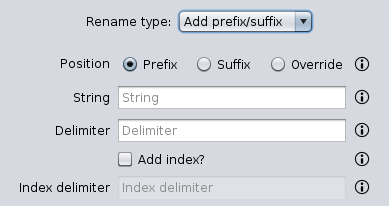
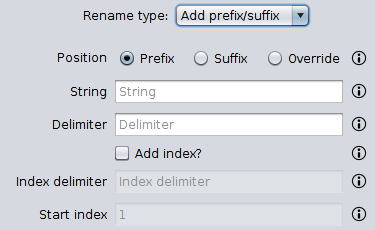
Adds start index parameter

diff --git a/seda/src/main/java/org/sing_group/seda/gui/rename/AddStringHeaderRenamePanel.java b/seda/src/main/java/org/sing_group/seda/gui/rename/AddStringHeaderRenamePanel.java
@@ -30,6 +30,8 @@ import static org.sing_group.seda.plugin.core.info.plugin.RenameHeaderAddWordSed
 import static org.sing_group.seda.plugin.core.info.plugin.RenameHeaderAddWordSedaPluginInfo.PARAM_INDEX_DELIMITER_HELP_GUI;
 import static org.sing_group.seda.plugin.core.info.plugin.RenameHeaderAddWordSedaPluginInfo.PARAM_POSITION_DESCRIPTION;
 import static org.sing_group.seda.plugin.core.info.plugin.RenameHeaderAddWordSedaPluginInfo.PARAM_POSITION_HELP_GUI;
+import static org.sing_group.seda.plugin.core.info.plugin.RenameHeaderAddWordSedaPluginInfo.PARAM_START_INDEX_DESCRIPTION;
+import static org.sing_group.seda.plugin.core.info.plugin.RenameHeaderAddWordSedaPluginInfo.PARAM_START_INDEX_HELP_GUI;
 import static org.sing_group.seda.plugin.core.info.plugin.RenameHeaderAddWordSedaPluginInfo.PARAM_STRING_DESCRIPTION;
 import static org.sing_group.seda.plugin.core.info.plugin.RenameHeaderAddWordSedaPluginInfo.PARAM_STRING_HELP_GUI;
 
@@ -37,12 +39,13 @@ import java.awt.event.ItemEvent;
 import java.util.LinkedList;
 import java.util.List;
 
-import javax.swing.*;
+import javax.swing.JCheckBox;
 
 import org.jdesktop.swingx.JXTextField;
 import org.sing_group.gc4s.input.InputParameter;
 import org.sing_group.gc4s.input.InputParametersPanel;
 import org.sing_group.gc4s.input.RadioButtonsPanel;
+import org.sing_group.gc4s.input.text.JIntegerTextField;
 import org.sing_group.seda.core.rename.AddStringHeaderRenamer;
 import org.sing_group.seda.core.rename.AddStringHeaderRenamer.Position;
 import org.sing_group.seda.core.rename.HeaderRenamer;
@@ -58,6 +61,7 @@ public class AddStringHeaderRenamePanel extends AbstractRenameHeaderPanel {
   private RadioButtonsPanel<Position> positionRbtnPanel;
   private JCheckBox addIndexCheckBox;
   private JXTextField indexDelimiterTextField;
+  private JIntegerTextField startIndexTextField;
   private List<InputParameter> additionalParameters;
 
   public AddStringHeaderRenamePanel() {
@@ -80,14 +84,10 @@ public class AddStringHeaderRenamePanel extends AbstractRenameHeaderPanel {
     toret.add(getPrefixStringParameter());
     toret.add(getDelimiterStringParameter());
 
-    InputParameter addIndexParameter = getAddIndexParameter();
     if (this.addIndexVisible) {
-      toret.add(addIndexParameter);
-    }
-
-    InputParameter addIndexDelimiterParameter = getIndexDelimiterParameter();
-    if (this.addIndexVisible) {
-      toret.add(addIndexDelimiterParameter);
+      toret.add(getAddIndexParameter());
+      toret.add(getIndexDelimiterParameter());
+      toret.add(getStartIndexParameter());
     }
 
     return toret.toArray(new InputParameter[toret.size()]);
@@ -136,10 +136,19 @@ public class AddStringHeaderRenamePanel extends AbstractRenameHeaderPanel {
       PARAM_INDEX_DELIMITER_DESCRIPTION, this.indexDelimiterTextField, PARAM_INDEX_DELIMITER_HELP_GUI
     );
   }
+  
+  private InputParameter getStartIndexParameter() {
+    this.startIndexTextField = new JIntegerTextField(1);
+    this.startIndexTextField.setEnabled(false);
+    this.startIndexTextField.getDocument().addDocumentListener(documentListener);
+
+    return new InputParameter(PARAM_START_INDEX_DESCRIPTION, this.startIndexTextField, PARAM_START_INDEX_HELP_GUI);
+  }
 
   private void addIndexCheckBoxItemEvent(ItemEvent event) {
     this.renameConfigurationChanged();
     this.indexDelimiterTextField.setEnabled(this.addIndexCheckBox.isSelected());
+    this.startIndexTextField.setEnabled(this.addIndexCheckBox.isSelected());
   }
 
   private String getPrefixString() {
@@ -157,6 +166,10 @@ public class AddStringHeaderRenamePanel extends AbstractRenameHeaderPanel {
   private String getIndexDelimiterString() {
     return this.indexDelimiterTextField.getText();
   }
+  
+  private int getStartIndex() {
+    return this.startIndexTextField.getValue();
+  }
 
   private Position getPosition() {
     return this.positionRbtnPanel.getSelectedItem().get();
@@ -170,7 +183,7 @@ public class AddStringHeaderRenamePanel extends AbstractRenameHeaderPanel {
   @Override
   public HeaderRenamer getHeaderRenamer(HeaderTarget target) {
     return new AddStringHeaderRenamer(
-      target, getPrefixString(), getDelimiterString(), getPosition(), isAddIndex(), getIndexDelimiterString()
+      target, getPrefixString(), getDelimiterString(), getPosition(), isAddIndex(), getIndexDelimiterString(), getStartIndex()
     );
   }
 

diff --git a/seda/src/main/java/org/sing_group/seda/cli/command/RenameHeaderAddWordCommand.java b/seda/src/main/java/org/sing_group/seda/cli/command/RenameHeaderAddWordCommand.java
@@ -35,6 +35,9 @@ import static org.sing_group.seda.plugin.core.info.plugin.RenameHeaderAddWordSed
 import static org.sing_group.seda.plugin.core.info.plugin.RenameHeaderAddWordSedaPluginInfo.PARAM_POSITION_HELP;
 import static org.sing_group.seda.plugin.core.info.plugin.RenameHeaderAddWordSedaPluginInfo.PARAM_POSITION_NAME;
 import static org.sing_group.seda.plugin.core.info.plugin.RenameHeaderAddWordSedaPluginInfo.PARAM_POSITION_SHORT_NAME;
+import static org.sing_group.seda.plugin.core.info.plugin.RenameHeaderAddWordSedaPluginInfo.PARAM_START_INDEX_HELP;
+import static org.sing_group.seda.plugin.core.info.plugin.RenameHeaderAddWordSedaPluginInfo.PARAM_START_INDEX_NAME;
+import static org.sing_group.seda.plugin.core.info.plugin.RenameHeaderAddWordSedaPluginInfo.PARAM_START_INDEX_SHORT_NAME;
 import static org.sing_group.seda.plugin.core.info.plugin.RenameHeaderAddWordSedaPluginInfo.PARAM_STRING_HELP;
 import static org.sing_group.seda.plugin.core.info.plugin.RenameHeaderAddWordSedaPluginInfo.PARAM_STRING_NAME;
 import static org.sing_group.seda.plugin.core.info.plugin.RenameHeaderAddWordSedaPluginInfo.PARAM_STRING_SHORT_NAME;
@@ -50,6 +53,7 @@ import org.sing_group.seda.plugin.spi.TransformationProvider;
 
 import es.uvigo.ei.sing.yacli.command.option.DefaultValuedStringOption;
 import es.uvigo.ei.sing.yacli.command.option.FlagOption;
+import es.uvigo.ei.sing.yacli.command.option.IntegerDefaultValuedStringConstructedOption;
 import es.uvigo.ei.sing.yacli.command.option.Option;
 import es.uvigo.ei.sing.yacli.command.option.StringOption;
 import es.uvigo.ei.sing.yacli.command.parameter.Parameters;
@@ -74,6 +78,10 @@ public class RenameHeaderAddWordCommand extends RenameHeaderCommand {
 
   public static final DefaultValuedStringOption OPTION_INDEX_DELIMITER = new DefaultValuedStringOption(
     PARAM_INDEX_DELIMITER_NAME, PARAM_INDEX_DELIMITER_SHORT_NAME, PARAM_INDEX_DELIMITER_HELP, "_"
+  );
+  
+  public static final IntegerDefaultValuedStringConstructedOption OPTION_START_INDEX = new IntegerDefaultValuedStringConstructedOption(
+    PARAM_START_INDEX_NAME, PARAM_START_INDEX_SHORT_NAME, PARAM_START_INDEX_HELP, 1
   );
 
   @Override
@@ -100,6 +108,7 @@ public class RenameHeaderAddWordCommand extends RenameHeaderCommand {
     options.add(OPTION_DELIMITER);
     options.add(OPTION_ADD_INDEX);
     options.add(OPTION_INDEX_DELIMITER);
+    options.add(OPTION_START_INDEX);
     options.addAll(super.createSedaOptions());
 
     return options;
@@ -124,6 +133,7 @@ public class RenameHeaderAddWordCommand extends RenameHeaderCommand {
     String stringToAdd = parameters.getSingleValue(OPTION_STRING);
     String delimiter = parameters.getSingleValue(OPTION_DELIMITER);
     boolean hasIndex = parameters.hasFlag(OPTION_ADD_INDEX);
+    int startIndex = parameters.getSingleValue(OPTION_START_INDEX);
     String indexDelimiter = "";
 
     if (hasIndex) {
@@ -134,7 +144,7 @@ public class RenameHeaderAddWordCommand extends RenameHeaderCommand {
 
     provider.setHeaderRenamer(
       new AddStringHeaderRenamer(
-        headerTarget, stringToAdd, delimiter, position, hasIndex, indexDelimiter
+        headerTarget, stringToAdd, delimiter, position, hasIndex, indexDelimiter, startIndex
       )
     );
 

diff --git a/seda/src/main/java/org/sing_group/seda/plugin/core/info/plugin/RenameHeaderAddWordSedaPluginInfo.java b/seda/src/main/java/org/sing_group/seda/plugin/core/info/plugin/RenameHeaderAddWordSedaPluginInfo.java
@@ -59,4 +59,10 @@ public class RenameHeaderAddWordSedaPluginInfo extends AbstractInfo {
   public static final String PARAM_INDEX_DELIMITER_DESCRIPTION = "Index delimiter";
   public static final String PARAM_INDEX_DELIMITER_HELP = "The index delimiter.";
   public static final String PARAM_INDEX_DELIMITER_HELP_GUI = toHtml(PARAM_INDEX_DELIMITER_HELP);
+  
+  public static final String PARAM_START_INDEX_NAME = "start-index";
+  public static final String PARAM_START_INDEX_SHORT_NAME = "si";
+  public static final String PARAM_START_INDEX_DESCRIPTION = "Start index";
+  public static final String PARAM_START_INDEX_HELP = "The start index.";
+  public static final String PARAM_START_INDEX_HELP_GUI = toHtml(PARAM_START_INDEX_HELP);
 }

diff --git a/seda-docs/source/operations.rst b/seda-docs/source/operations.rst
@@ -2384,6 +2384,7 @@ The *‘Add prefix/suffix’* rename mode allows adding the word specified in th
 - *Delimiter*: the delimiter between the word to add and the header. Note that the word to add also includes the index.
 - *Add index*: whether an index should be added to the defined word or not.
 - *Index delimiter*: the delimiter between the word to add and the index number.
+- *Start index*: the start index number.
 
 .. figure:: images/operations/rename-header/5.png
    :align: center
